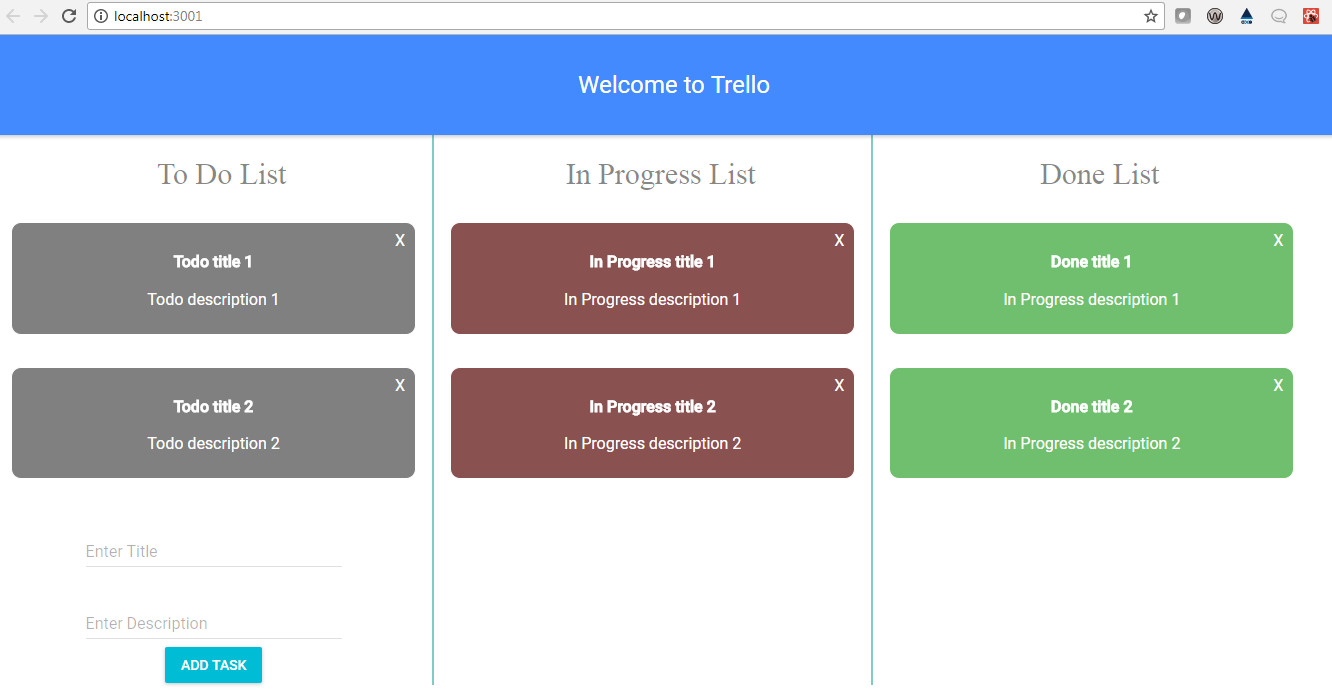
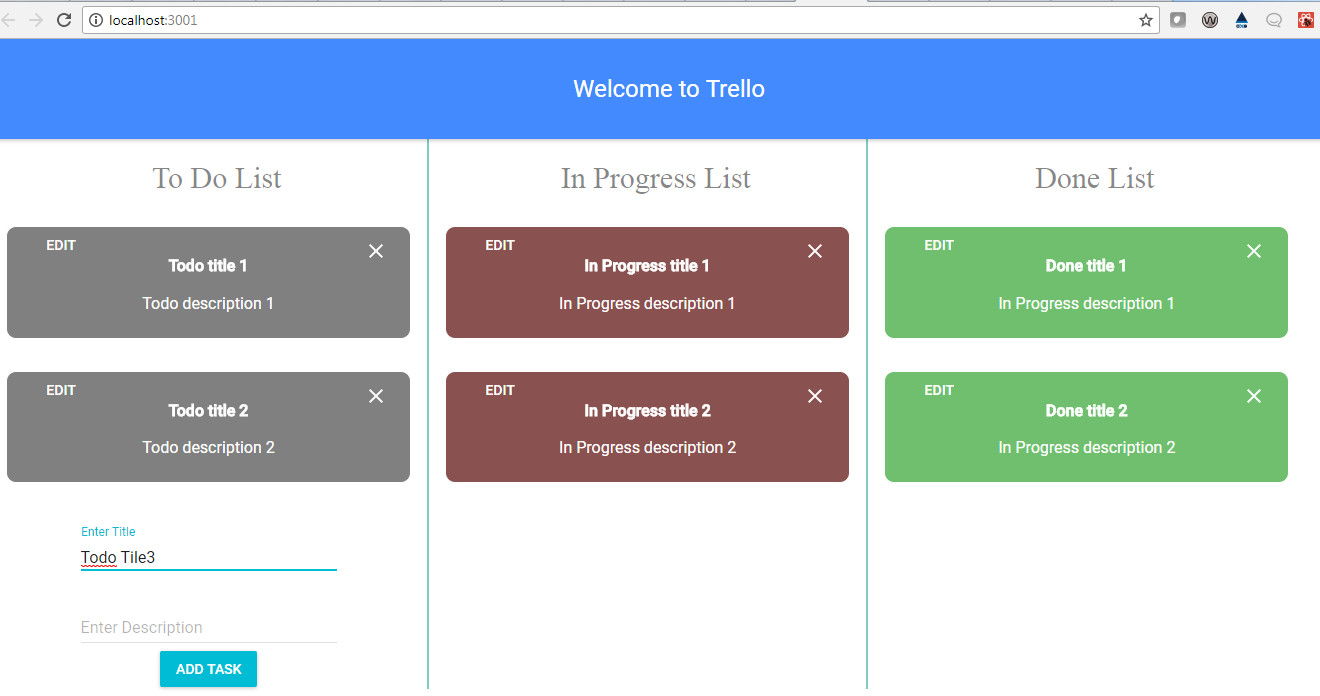
material ui buttons added

diff --git a/src/components/card.js b/src/components/card.js
@@ -1,8 +1,33 @@
 import React from 'react';
+import AppBar from 'material-ui/AppBar';
+import IconButton from 'material-ui/IconButton';
+import NavigationClose from 'material-ui/svg-icons/navigation/close';
+import FlatButton from 'material-ui/FlatButton';
+
+const styles = {
+  remove: {
+    cursor: 'pointer',
+    position: 'absolute',
+  	top: '0',
+  	right: '10px'
+  },
+  edit: {
+    cursor: 'pointer',
+    position: 'absolute',
+  	top: '0',
+  	left: '10px'
+  },
+
+};
+
+function handleClick() {
+  alert('onClick triggered on the title component');
+}
 
 const Card = ({ type, title, description, removeCallback }) => (
     <div className='card' draggable="true">
-        <span className='remove' onClick={() => removeCallback(type, title) }>X</span>
+        <IconButton style={styles.remove} secondary={true}><NavigationClose className="white-color" onClick={() => removeCallback(type, title) }></NavigationClose></IconButton>
+     <FlatButton className="white-color" style={styles.edit} label="Edit" />
         <h4>{ title }</h4>
         <p>{ description }</p>
     </div>

diff --git a/src/components/todoList.js b/src/components/todoList.js
@@ -5,6 +5,8 @@ import Subheader from 'material-ui/Subheader';
 import {List, ListItem} from 'material-ui/List';
 import RaisedButton from 'material-ui/RaisedButton';
 import TextField from 'material-ui/TextField';
+import FloatingActionButton from 'material-ui/FloatingActionButton';
+import ContentAdd from 'material-ui/svg-icons/content/add';
 
 class TodoList extends Component {
   constructor(props) {
@@ -81,9 +83,11 @@ class TodoList extends Component {
                         <RaisedButton label="Add Task" primary={true} onClick={(e) => this.addItem(e) } />
                     </form>
                     :
-                    // eslint-disable-next-line
-                    <a href='javascript:void(0);' onClick={() => this.toggleForm(true) }>Add Task</a>
+                    <FloatingActionButton>
+                      <ContentAdd onClick={() => this.toggleForm(true) } />
+                    </FloatingActionButton>
                 }
+                
             </div>
         );
   }

diff --git a/src/css/index.css b/src/css/index.css
@@ -23,7 +23,7 @@ body{
   height: 80px;
 }
 
-
+.white-color{color:#FFF !important;}
 
 .wrapper {
     display: flex;
